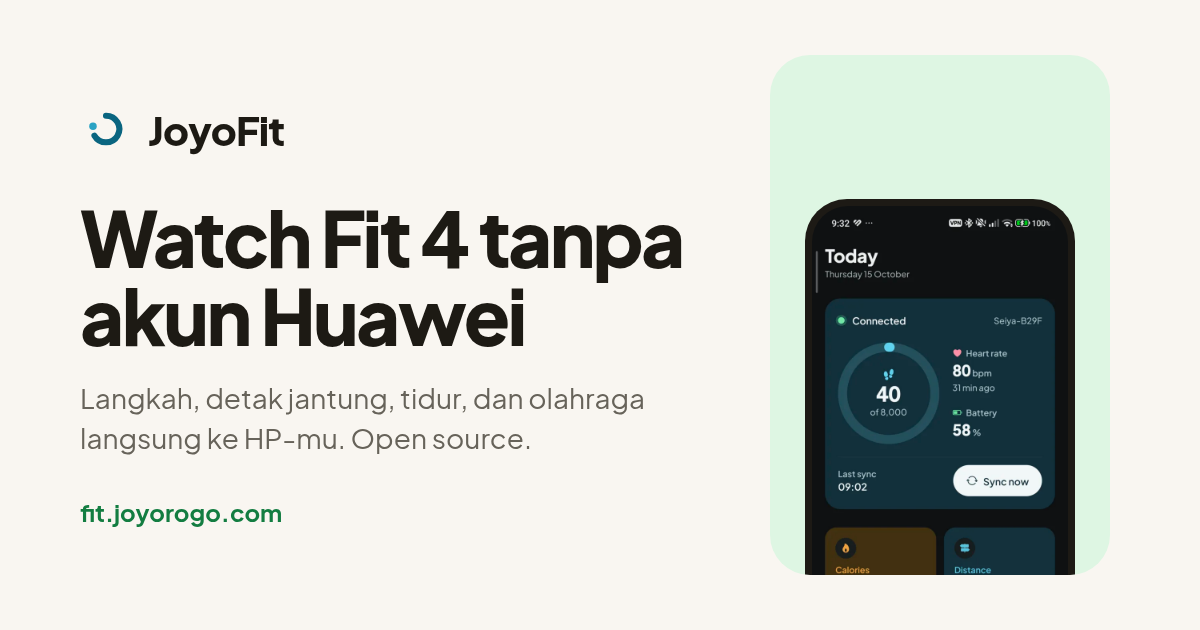
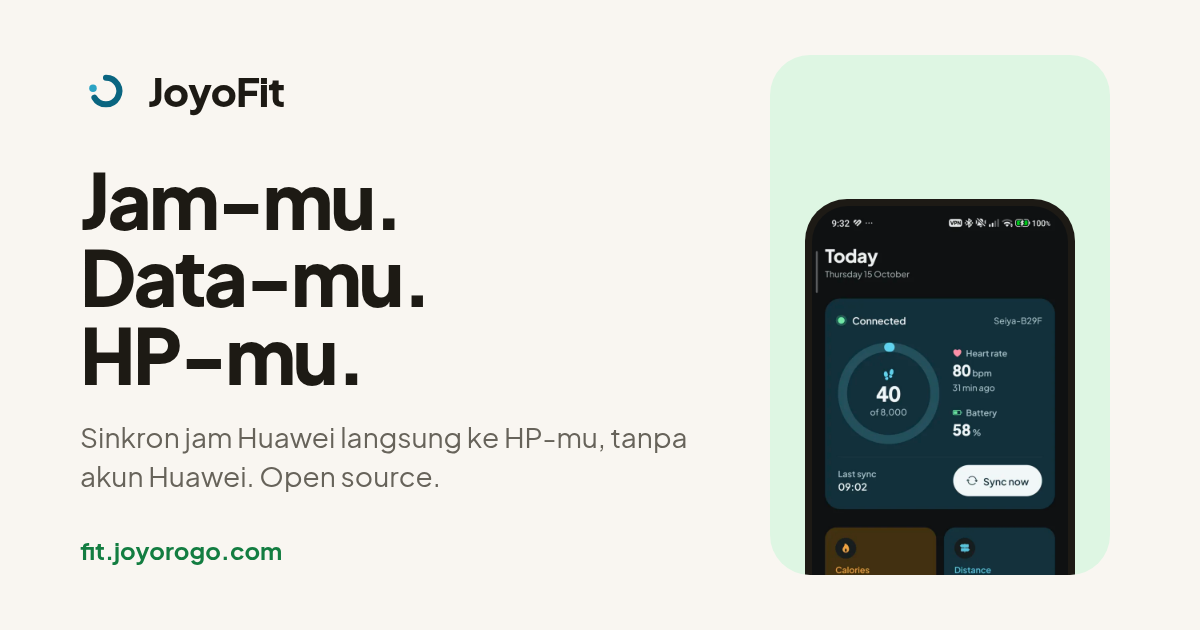
Site: Jam-mu. Data-mu. HP-mu. slogan in hero (stacked), meta titles and OG image; jammu -> jam-mu in copy

Changed region(s): [[0.0617, 0.2714, 0.5858, 0.9048], [0.0617, 0.1206, 0.2467, 0.2413]]

diff --git a/site/src/App.tsx b/site/src/App.tsx
@@ -149,7 +149,7 @@ const FAQ = [
   },
   {
     q: "Jam apa saja yang didukung?",
-    a: `Baru Huawei Watch Fit 4 Pro yang sudah diuji. Jam dan band Huawei dan Honor lain di daftar Gadgetbridge (Bluetooth Classic maupun Bluetooth LE) masih eksperimen: jalurnya ada, tapi belum pernah dicoba dengan JoyoFit. Honor Watch 5, 5 Pro, dan 6 belum bisa. Daftar lengkapnya ada di halaman Jam yang didukung, dan kamu bisa membantu jammu masuk daftar uji di halaman Dukung jam. Aplikasinya untuk Android 10 ke atas. ${IOS_TESTFLIGHT_LIVE ? "Versi iPhone ada sebagai beta lewat TestFlight, baru diuji dengan Huawei Watch Fit 4 Pro." : "Belum ada versi iPhone."}`,
+    a: `Baru Huawei Watch Fit 4 Pro yang sudah diuji. Jam dan band Huawei dan Honor lain di daftar Gadgetbridge (Bluetooth Classic maupun Bluetooth LE) masih eksperimen: jalurnya ada, tapi belum pernah dicoba dengan JoyoFit. Honor Watch 5, 5 Pro, dan 6 belum bisa. Daftar lengkapnya ada di halaman Jam yang didukung, dan kamu bisa membantu jam-mu masuk daftar uji di halaman Dukung jam. Aplikasinya untuk Android 10 ke atas. ${IOS_TESTFLIGHT_LIVE ? "Versi iPhone ada sebagai beta lewat TestFlight, baru diuji dengan Huawei Watch Fit 4 Pro." : "Belum ada versi iPhone."}`,
   },
   {
     q: "Sudah stabil dipakai?",
@@ -303,7 +303,9 @@ function Hero() {
     >
       <div>
         <h1 className="max-w-xl text-[2.625rem] leading-[1.04] font-extrabold tracking-tight text-balance md:text-[4rem]">
-          Jammu. Datamu. HP-mu.
+          <span className="block">Jam-mu.</span>
+          <span className="block">Data-mu.</span>
+          <span className="block">HP-mu.</span>
         </h1>
         <p className="mt-5 max-w-lg text-lg leading-relaxed text-muted-foreground md:text-xl">
           Pendamping jam Huawei yang jalan di HP sendiri. Langkah, detak jantung, tidur, dan olahraga
@@ -347,7 +349,7 @@ function Hero() {
             className="font-semibold text-foreground underline underline-offset-4"
             {...goal("dukung_jam_click", "hero")}
           >
-            Jammu belum diuji? Bantu kami mendukungnya.
+            Jam-mu belum diuji? Bantu kami mendukungnya.
           </a>
         </p>
       </div>
@@ -427,7 +429,7 @@ function Basics() {
       className="mx-auto w-full max-w-6xl scroll-mt-20 px-4 py-20 md:px-6 md:py-28"
     >
       <div className="max-w-2xl">
-        <SectionTitle>Semua data jammu, di HP-mu.</SectionTitle>
+        <SectionTitle>Semua data jam-mu, di HP-mu.</SectionTitle>
         <p className="mt-4 text-lg leading-relaxed text-muted-foreground">
           Sinkron pertama menarik 7 hari terakhir, sinkron berikutnya lanjut dari terakhir. Mode
           latar belakang menjaga jam tetap terhubung dan menyinkron tiap 30 menit.
@@ -598,7 +600,7 @@ function Scores() {
           <SectionTitle>Recovery, Strain, dan Readiness</SectionTitle>
           <p className="mt-4 text-lg leading-relaxed text-muted-foreground">
             Tiga skor harian gaya aplikasi pelatih kebugaran, terinspirasi dari WHOOP tapi bukan
-            produk WHOOP. Semuanya dihitung di HP dari data jammu dengan metode yang dipublikasikan.
+            produk WHOOP. Semuanya dihitung di HP dari data jam-mu dengan metode yang dipublikasikan.
           </p>
         </div>
         <ul className="mt-10 grid gap-4 md:grid-cols-3">
@@ -1076,7 +1078,7 @@ function OpenSource() {
             </h2>
             <p className="mt-1 max-w-xl text-[0.9375rem] leading-relaxed text-muted-foreground">
               Seluruh kode JoyoFit ada di GitHub dengan lisensi AGPL-3.0-or-later, termasuk modul
-              protokol yang porting dari Gadgetbridge. Ada yang salah di jammu? Buka issue dan
+              protokol yang porting dari Gadgetbridge. Ada yang salah di jam-mu? Buka issue dan
               lampirkan log dari Pengaturan.
             </p>
           </div>
@@ -1112,10 +1114,10 @@ function Closing() {
     <section data-section="signup" className="mx-auto w-full max-w-6xl px-4 pb-16 md:px-6">
       <div className="rounded-[2rem] bg-primary px-6 py-12 text-center text-primary-foreground md:px-14 md:py-16">
         <h2 className="mx-auto max-w-xl text-3xl font-extrabold tracking-tight text-balance md:text-[2.75rem] md:leading-[1.1]">
-          Pindahkan data jammu ke HP hari ini
+          Pindahkan data jam-mu ke HP hari ini
         </h2>
         <p className="mx-auto mt-4 max-w-lg text-lg leading-relaxed text-primary-foreground/80">
-          Pasang JoyoFit, sambungkan jam lewat Bluetooth, dan data jammu ada di HP-mu hari ini juga.
+          Pasang JoyoFit, sambungkan jam lewat Bluetooth, dan data jam-mu ada di HP-mu hari ini juga.
         </p>
         <div className="mt-8 flex flex-wrap justify-center gap-3">
           <ButtonLink
@@ -1379,7 +1381,7 @@ function DukungJamPage() {
           Daftar jam yang didukung
         </a>
         <h1 className="mt-4 max-w-3xl text-3xl font-extrabold tracking-tight text-balance md:text-[2.75rem] md:leading-[1.1]">
-          Bantu kami mendukung jammu
+          Bantu kami mendukung jam-mu
         </h1>
         <p className="mt-4 max-w-2xl text-lg leading-relaxed text-muted-foreground">
           JoyoFit dibuat dan diuji dengan satu jam, Huawei Watch Fit 4 Pro. Jam lain masuk daftar karena
@@ -1420,7 +1422,7 @@ function DukungJamPage() {
             </span>
             <h2 className="mt-4 text-xl font-extrabold tracking-tight">Pinjamkan atau kirim jam</h2>
             <p className="mt-2 text-sm leading-relaxed text-muted-foreground">
-              Kalau jammu belum ada di daftar uji dan kamu rela meminjamkannya, kirim email dulu. Kami meminjam
+              Kalau jam-mu belum ada di daftar uji dan kamu rela meminjamkannya, kirim email dulu. Kami meminjam
               hanya untuk menguji dan mengembalikannya. Lama pinjam dan siapa yang menanggung ongkos kirim pulang
               kita sepakati tertulis lewat email sebelum kamu mengirim apa pun, jadi jangan kirim paket tanpa
               balasan dari kami.
@@ -1429,7 +1431,7 @@ function DukungJamPage() {
               {[
                 "Reset pabrik jam dan keluarkan dari akun Huawei dan Huawei Health sebelum dikirim.",
                 "Paket bisa hilang atau rusak di jalan. Pertimbangkan itu sebelum mengirim.",
-                "Kami tidak menjanjikan jammu akan berfungsi penuh setelah dicoba.",
+                "Kami tidak menjanjikan jam-mu akan berfungsi penuh setelah dicoba.",
               ].map((line) => (
                 <li key={line} className="flex gap-2">
                   <Dot />
@@ -1452,7 +1454,7 @@ function DukungJamPage() {
             <h2 className="mt-4 text-xl font-extrabold tracking-tight">Patungan lewat Trakteer</h2>
             <p className="mt-2 text-sm leading-relaxed text-muted-foreground">
               Dana patungan dipakai untuk membeli atau meminjam jam uji dan ongkos kirimnya, dimulai dari model yang
-              paling banyak diminta. Tulis nama model jammu di pesan Trakteer supaya kami tahu. Belum ada target
+              paling banyak diminta. Tulis nama model jam-mu di pesan Trakteer supaya kami tahu. Belum ada target
               atau jumlah terkumpul yang kami tampilkan di sini, dan dukungan tidak menjamin model tertentu akan
               didukung.
             </p>

diff --git a/site/index.html b/site/index.html
@@ -13,7 +13,7 @@
     <meta property="og:site_name" content="JoyoFit" />
     <meta property="og:locale" content="id_ID" />
     <meta property="og:url" content="https://fit.joyorogo.com/" />
-    <meta property="og:title" content="JoyoFit: Jammu. Datamu. HP-mu." />
+    <meta property="og:title" content="JoyoFit: Jam-mu. Data-mu. HP-mu." />
     <meta
       property="og:description"
       content="Sinkron langkah, detak jantung, tidur, SpO2, dan olahraga dari jam Huawei ke HP-mu. Open source, cloud opsional."
@@ -26,7 +26,7 @@
       content="JoyoFit: pengganti Huawei Health untuk jam Huawei, open source."
     />
     <meta name="twitter:card" content="summary_large_image" />
-    <meta name="twitter:title" content="JoyoFit: Jammu. Datamu. HP-mu." />
+    <meta name="twitter:title" content="JoyoFit: Jam-mu. Data-mu. HP-mu." />
     <meta
       name="twitter:description"
       content="Sinkron langkah, detak jantung, tidur, SpO2, dan olahraga dari jam Huawei ke HP-mu. Open source, cloud opsional."
@@ -63,7 +63,7 @@
   <body>
     <div id="app">
       <main style="max-width: 40rem; margin: 0 auto; padding: 3rem 1.25rem; font-family: system-ui, sans-serif; line-height: 1.6">
-        <h1>JoyoFit: Jammu. Datamu. HP-mu.</h1>
+        <h1>JoyoFit: Jam-mu. Data-mu. HP-mu.</h1>
         <p>
           Aplikasi Android open source (AGPL-3.0) yang menggantikan Huawei Health untuk Huawei Watch Fit 4 Pro (diuji); jam Huawei lain eksperimen.
           Sinkron langkah, detak jantung, tidur, SpO2, dan olahraga ke HP-mu.

diff --git a/site/og/og-image.html b/site/og/og-image.html
@@ -41,8 +41,8 @@
   <body>
     <div>
       <div class="brand"><img src="../public/brand/logo-mark.svg" alt="" />JoyoFit</div>
-      <h1>Watch Fit 4 tanpa akun Huawei</h1>
-      <p>Langkah, detak jantung, tidur, dan olahraga langsung ke HP-mu. Open source.</p>
+      <h1>Jam-mu.<br />Data-mu.<br />HP-mu.</h1>
+      <p>Sinkron jam Huawei langsung ke HP-mu, tanpa akun Huawei. Open source.</p>
       <div class="url">fit.joyorogo.com</div>
     </div>
     <div class="stage"><div class="phone"><img src="../public/shots/today.webp" alt="" /></div></div>

diff --git a/site/src/Privasi.tsx b/site/src/Privasi.tsx
@@ -183,7 +183,7 @@ function Indonesian() {
       <Block title="Strava (opsional, gratis)">
         <p>
           Bila kamu menyambungkan Strava di Pengaturan, Strava (masuk dengan akun JoyoRogo dulu), JoyoFit
-          mengirim olahraga dari jammu ke akun Strava-mu sendiri. Izin yang diminta hanya satu: mengunggah
+          mengirim olahraga dari jam-mu ke akun Strava-mu sendiri. Izin yang diminta hanya satu: mengunggah
           aktivitas (<Code>activity:write</Code>).
         </p>
         <List
